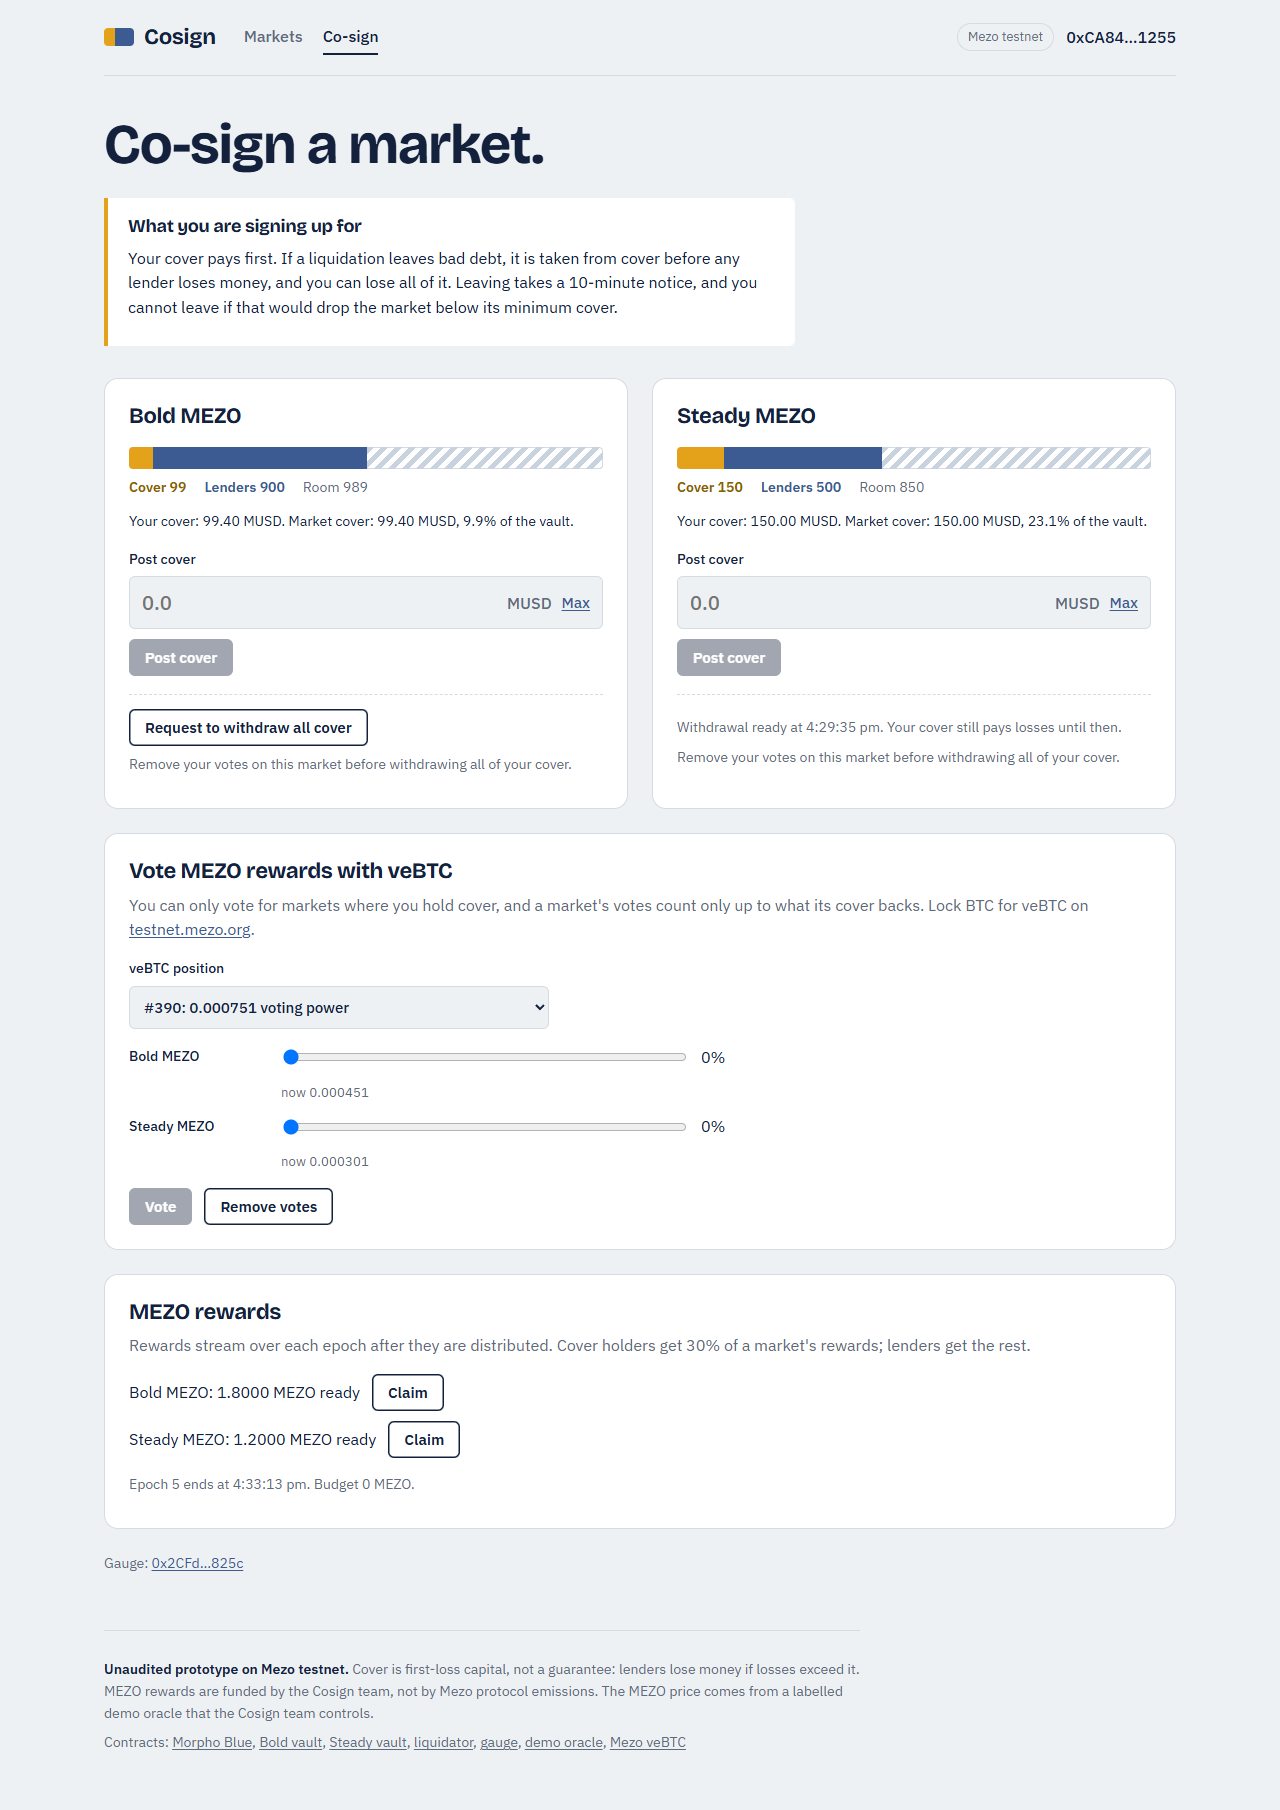
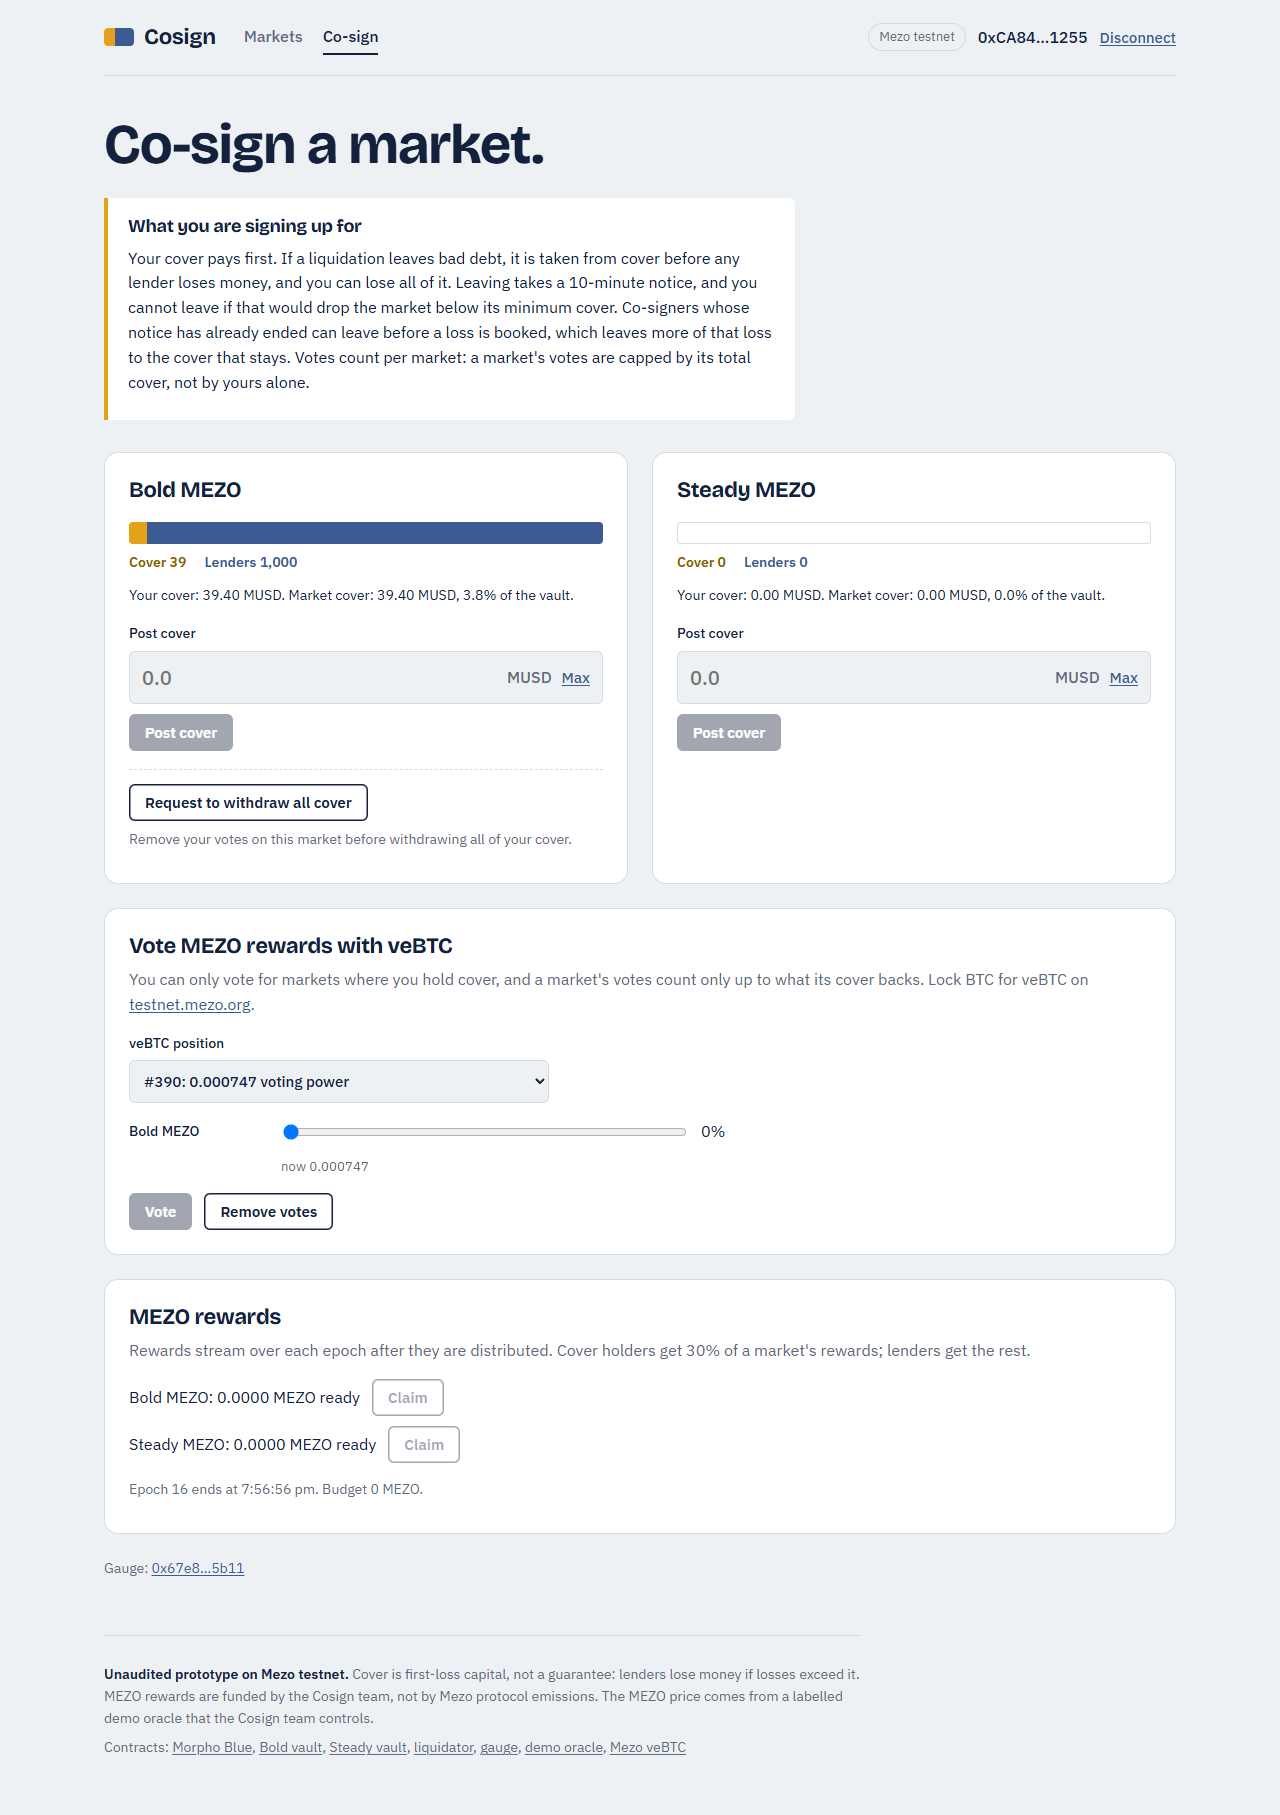
docs: add README, architecture diagram and v2 report; refresh screenshots
Retake screenshots from the live v2 app, archive the v1 report, and state
the first-loss guarantee with its limits.

diff --git a/README.md b/README.md
@@ -1,0 +1,162 @@
+<h1 align="center">Cosign</h1>
+
+<p align="center"><em>Credit ratings with skin in the game.</em></p>
+
+<p align="center">
+  First-loss cover for Morpho Blue lending markets on Mezo, posted by veBTC holders.<br>
+  Unaudited prototype · Mezo testnet only · <a href="#security-and-limitations">Read the limits first</a>
+</p>
+
+<p align="center"><img src="docs/screenshots/readme-market.png" alt="The Bold MEZO market in the Cosign app: cover in front of lenders, with the guarantee panel" width="860"></p>
+
+## Overview
+
+A lender on a lending market has no way to know how much of its own money the people who vouch for the market have at stake. Cosign makes that visible and enforceable.
+
+A veBTC holder (a **co-signer**) posts MUSD as **cover** in a market. Lenders deposit MUSD behind that cover. If a borrower's position is liquidated with bad debt, the loss is charged to cover first and reaches lenders only after cover is gone. In return, co-signers earn a share of the interest and the MEZO rewards that the market attracts.
+
+Cosign does not replace a lending protocol. It sits in front of one market on [Morpho Blue](https://github.com/morpho-org/morpho-blue), unmodified, and decides who bears a loss and who may vote for rewards.
+
+## Mechanism
+
+**Vote = Bond = Credit limit.**
+
+| Rule | What the contracts do |
+|---|---|
+| Cover is a bond | Co-signer MUSD sits in the junior tranche of a market's vault. A loss reduces it before any lender's balance. |
+| A vote needs a bond | veBTC votes for a market count only up to `cover × capRate`. A vote with no cover has no weight. |
+| Cover sets the credit limit | The vault accepts lender deposits only while `senior ≤ maxLeverage × cover` (19× on the Bold market, 9× on Steady). |
+| Cover cannot vanish at once | Leaving requires a notice period, then a withdrawal window, and is refused if it would drop the market below its minimum cover. |
+| Rewards are not emissions | MEZO paid to markets is funded by whoever calls `fund`. Cosign does not claim Mezo protocol emissions. |
+
+## Architecture
+
+<p align="center"><img src="docs/architecture.svg" alt="Cosign architecture: participants, Cosign contracts and Morpho Blue" width="860"></p>
+
+| Contract | Role |
+|---|---|
+| [`CosignVault`](contracts/src/CosignVault.sol) | One per market. Tranche accounting (senior and junior shares), interest split with a junior premium, loss waterfall, cover exit rules, reward streaming. Supplies MUSD to the Morpho market. |
+| [`CosignGauge`](contracts/src/CosignGauge.sol) | Reads live veBTC power. Caps each market's weight by its cover. Distributes self-funded MEZO by weight each epoch. `poke` scales down votes whose veBTC power has decayed; `clean` removes votes whose cover is gone. |
+| [`CosignLiquidator`](contracts/src/CosignLiquidator.sol) | Syncs the vault, liquidates on Morpho, syncs again, so interest is booked before a loss is applied. |
+| [`AdminOracle`](contracts/src/AdminOracle.sol) | Owner-set price. **Demo only.** It exists so a price crash can be shown on testnet. |
+| [`FixedRateIrm`](contracts/src/FixedRateIrm.sol) | Fixed-APR interest model for each market. |
+| Morpho Blue | Vendored at commit `9cf6d5b` and deployed unmodified as our own instance. |
+
+External: Mezo MUSD, the MEZO precompile, and the Mezo veBTC contract.
+
+## Product preview
+
+The app reads the deployed contracts directly. The bar shows capital in the order it is lost: cover first, then lenders.
+
+<p align="center"><img src="docs/screenshots/readme-losses.png" alt="Losses on this market: two liquidation losses, both paid entirely by cover, each linked to its block" width="860"></p>
+
+More screenshots are in [`docs/screenshots`](docs/screenshots) (light and dark, desktop and mobile).
+
+## Onchain proof
+
+Recorded on Mezo testnet against the v2 deployment below. The full list of 35 transactions and all 58 checks, including the six that failed on a first attempt and why, is in [`docs/TESTNET_EVIDENCE.md`](docs/TESTNET_EVIDENCE.md).
+
+| Event | Result | Transaction |
+|---|---|---|
+| Demo oracle sets MEZO from 10 to 3 MUSD | Borrower is liquidatable | [`0x83caa79b…`](https://explorer.test.mezo.org/tx/0x83caa79b9bcf4091663c0297bd3bcf0888abd3ead42a64eaa2bda1c4abe4217e) |
+| Direct liquidation on Morpho realises bad debt | 300.5 MUSD written off the market | [`0x1b71eae7…`](https://explorer.test.mezo.org/tx/0x1b71eae77951915978ab1c6d141ab411303106fdae58ed7aceae2a3287b13f59) |
+| Vault `sync()` allocates the loss | Cover 400 → 99.5 MUSD. Lenders' 1,000 MUSD principal untouched | [`0x214aaa56…`](https://explorer.test.mezo.org/tx/0x214aaa56492884f6031638d438959fdc14a805f16db883f1259651fe79a0a3ba) |
+| Liquidation through `CosignLiquidator` | Senior is credited its interest first; a 60.1 MUSD loss falls entirely on cover; the vault becomes under-covered and lender deposits are blocked | [`0x9e3b672c…`](https://explorer.test.mezo.org/tx/0x9e3b672c54374dd316e5ef90785442335474b41b7b1ced1a7b21165e3bb4ccba) |
+| Gauge distributes epoch 14 | 8 MEZO funded, 8 distributed, 8 claimed, 0 left over | [`0xa2801fd0…`](https://explorer.test.mezo.org/tx/0xa2801fd053fc47e0fb539e0e0b7164828f4fe14092d096debefc580dae3b2942) |
+
+On the first loss the lender's *booked* principal was untouched, but **0.000004 MUSD of interest that had accrued since the last sync was netted against the loss** because the liquidation went straight to Morpho. That is the documented limit of a direct liquidation; `CosignLiquidator` removes it. See [Security and limitations](#security-and-limitations).
+
+## Live deployments
+
+Mezo testnet (chain `31611`), v2. `contracts/script/verify_deploy.py` checks these against the chain (43/43 pass); `contracts/script/verify_bytecode.py` compares deployed bytecode with the compiled source (8/8 match).
+
+| Contract | Address |
+|---|---|
+| Morpho Blue | [`0xC6db4999d8428b259FD198A88d2B8E6494045A48`](https://explorer.test.mezo.org/address/0xC6db4999d8428b259FD198A88d2B8E6494045A48) |
+| CosignGauge | [`0x67e8De42E32000B703Cf95c05009eE757F325b11`](https://explorer.test.mezo.org/address/0x67e8De42E32000B703Cf95c05009eE757F325b11) |
+| CosignVault, Bold (77% LLTV, 19×) | [`0x49C8a8d5106B2878679d10EAEA71D0e6793bd7D7`](https://explorer.test.mezo.org/address/0x49C8a8d5106B2878679d10EAEA71D0e6793bd7D7) |
+| CosignVault, Steady (62.5% LLTV, 9×) | [`0x8f89117d71269E35D980905327e4C1252294B4a9`](https://explorer.test.mezo.org/address/0x8f89117d71269E35D980905327e4C1252294B4a9) |
+| CosignLiquidator | [`0xeA16eD793d165AFD1791a0f83668bf65735ED597`](https://explorer.test.mezo.org/address/0xeA16eD793d165AFD1791a0f83668bf65735ED597) |
+| AdminOracle (demo) | [`0xE9a83636AcBf75eBf3b20497B8126624D4378cc5`](https://explorer.test.mezo.org/address/0xE9a83636AcBf75eBf3b20497B8126624D4378cc5) |
+
+Full list, IRMs, and Mezo's own MUSD, MEZO and veBTC addresses: [`contracts/deployments/31611.json`](contracts/deployments/31611.json). The earlier v1 deployment is archived in `31611-v1.json`.
+
+## Getting started
+
+Requirements: [Foundry](https://book.getfoundry.sh/) (tested with 1.8.5), Node 20 or newer, Git with submodules.
+
+```bash
+git clone --recurse-submodules https://github.com/bunnyyxtan/cosign.git
+cd cosign
+
+# contracts
+cd contracts
+forge build
+forge test
+
+# app (reads the deployed testnet contracts; no wallet needed to browse)
+cd ../web
+npm ci
+npm run dev
+```
+
+The app copies `contracts/deployments/31611.json` and `demo-run.json` into `web/public/` on start. Connecting a wallet requires an injected EIP-1193 wallet (for example MetaMask) on Mezo testnet; the app offers to add and switch the network.
+
+`web/src/devWallet.ts` is a test-only wallet shim used for screenshots and automated runs. It installs only under `vite dev` when a local, git-ignored `web/.env.development.local` exists, and it is absent from the production bundle.
+
+To repeat the live demo you need your own funded testnet wallets: copy `.env.example` to `.env`, fill in testnet keys, and run `python -I contracts/script/demo.py <stage>` from `contracts/`. Stages are resumable and skip steps already present on-chain.
+
+## Testing
+
+| What | How | Latest recorded result |
+|---|---|---|
+| Contract unit, edge and adversarial tests | `cd contracts && forge test` | 40 pass, 0 fail (2,000 fuzz runs; see [`docs/test-results.txt`](docs/test-results.txt)) |
+| Fuzzing | Included; set `FOUNDRY_FUZZ_RUNS=2000` | Loss waterfall, round-trip value, last co-signer exit, enforceable guarantee |
+| Frontend type check and build | `cd web && npm run build` | Passes |
+| Dependency audit (production) | `cd web && npm audit --omit=dev` | 0 vulnerabilities |
+| Deployment against chain | `python -I contracts/script/verify_deploy.py` | 43/43 |
+| Deployed bytecode against source | `python -I contracts/script/verify_bytecode.py` | 8/8 |
+
+CI ([`.github/workflows/ci.yml`](.github/workflows/ci.yml)) builds and tests the contracts and builds the app. It uses no wallets or secrets.
+
+## Security and limitations
+
+**Cosign is an unaudited prototype on a test network. Do not use it with real funds.** Cover is first-loss capital, not insurance.
+
+What the contracts enforce:
+
+- A loss is taken from cover first. Lenders lose principal only for the part of a loss larger than the cover in front of them.
+- Every recognised loss is split between cover and lenders exactly (`LossAbsorbed` events), with nothing created or lost.
+- Votes carry weight only up to live cover.
+
+What they do **not** guarantee:
+
+- **Interest since the last sync, on direct liquidations.** A liquidation sent straight to Morpho can net the unbooked interest against the loss. Use `CosignLiquidator`.
+- **Protection beyond the cover.** A larger loss falls on the lenders still in the vault. Lenders who withdrew before it was realised are not charged, so those who stay bear more.
+- **That cover stays.** A co-signer whose notice period has ended can leave before a loss is booked.
+- **A borrowing limit.** The 19× rule caps deposits into a Cosign vault, not borrowing on the Morpho market, and borrowing is not paused when a vault is under-covered.
+- **Price integrity.** The oracle is a single-owner demo oracle. A production market needs a decentralised one.
+
+Findings, test evidence and open items are in [`docs/TESTNET_REPORT.md`](docs/TESTNET_REPORT.md). To report a vulnerability, see [`SECURITY.md`](SECURITY.md).
+
+## Roadmap
+
+Wave 2 candidates, none of which is built:
+
+1. Independent audit of the vault and gauge accounting.
+2. Replace the demo oracle with a production price source, and gate borrowing on cover.
+3. Settle losses at liquidation time so exits just before realisation cannot shift losses onto stayers.
+4. Mezo mainnet readiness: parameter review with the Mezo team, monitoring, and keeper operation for `CosignLiquidator`.
+
+## Credits and licensing
+
+Cosign's own source (`contracts/src`, `contracts/test`, `contracts/script`, `web`) is released under the [MIT License](LICENSE).
+
+Built on, and grateful to:
+
+- [Morpho Blue](https://github.com/morpho-org/morpho-blue) (GPL-2.0-or-later), vendored unmodified as a submodule and deployed as our own instance.
+- [OpenZeppelin Contracts](https://github.com/OpenZeppelin/openzeppelin-contracts) v5.1.0 (MIT) and [forge-std](https://github.com/foundry-rs/forge-std) (MIT or Apache-2.0).
+- [Mezo](https://mezo.org): MUSD, MEZO and veBTC.
+- React, Vite and viem (MIT).
+
+[`NOTICE.md`](NOTICE.md) lists third-party licences, including a note on the Morpho licence and how Cosign links to it.

diff --git a/docs/TESTNET_REPORT.md b/docs/TESTNET_REPORT.md
@@ -1,0 +1,52 @@
+# Cosign v2: testnet status report
+
+20 October 2026. Mezo testnet, chain 31611. Unaudited prototype; no mainnet transactions, no real funds. Every figure comes from chain state or transaction logs; the full tables are in [`TESTNET_EVIDENCE.md`](TESTNET_EVIDENCE.md), generated from the recorded run. The archived v1 report is [`TESTNET_REPORT_v1.md`](TESTNET_REPORT_v1.md).
+
+## What changed from v1
+
+| Issue found | Fix | Verified |
+|---|---|---|
+| Interest accrued since the last sync could be netted against a loss | `CosignLiquidator` (sync, liquidate, sync) | Live: interest booked before the loss, tx `0x9e3b672c…` |
+| Premium accrued to a wiped, empty cover round | `_books()` sends all interest to senior when there are no junior shares | Foundry test |
+| Stale veBTC votes kept full weight after power decayed | `CosignGauge.poke(tokenId)`, down-only, callable by anyone | Live poke: 747260802206100 → 746696758996422 |
+| 1 wei of senior dust with no shares blocked the last co-signer's exit | Dust-aware coverage check | Foundry stdstore reproduction and fuzz test |
+
+## Live v2 result
+
+- Cover posted (400 MUSD), votes capped by cover, lender deposit capped by `19 × cover` (a deposit of capacity + 1 reverts).
+- Self-funded MEZO: 8 funded, 8 distributed, 8 claimed, 0 left in the vault; a second distribution and a second claim pay nothing.
+- First loss, direct Morpho liquidation: 300.5 MUSD recognised, all from cover (400 → 99.5). Lenders' last-synced principal untouched; **0.000004 MUSD of unbooked interest was forgone**.
+- Second loss, through `CosignLiquidator`: 60.1 MUSD, all from cover; senior credited its interest first; vault became under-covered and blocked new deposits.
+- The app displays these transactions from the recorded run.
+
+Checks: 52 pass, 6 fail as recorded. The failures are kept in the evidence with causes: all six were flaws in the test script, not the contracts (a non-idempotent rerun after an RPC null receipt, a check that compared against an interest-inclusive preview, thresholds that ignored streaming rewards). The live `poke` stage also did not record its last check, which is covered by Foundry tests instead.
+
+## Tests and tooling
+
+| Item | Result |
+|---|---|
+| Foundry | 40 pass, 0 fail, 2,000 fuzz runs |
+| Frontend `tsc` and production build | Pass |
+| `npm audit --omit=dev` | 0 vulnerabilities |
+| Deployment verification against chain | 43/43 |
+| Deployed bytecode against compiled source | 8/8 |
+| Secret scan, working tree and full git history | No wallet key, token or key block found; `.env` never committed |
+| Production bundle | No dev-wallet code, no key material |
+
+## Release-readiness
+
+| Item | Status | Note |
+|---|---|---|
+| Contracts deployed and wired on testnet | PASS | 43/43 |
+| First-loss waterfall on a real liquidation | PASS | Measured twice |
+| Self-funded rewards reconcile | PASS | Exact to the wei at end of stream |
+| UI claims no stronger guarantee than the contracts | PASS | Guarantee panel states the limits |
+| Real-wallet (MetaMask) acceptance on testnet | **BLOCKED** | Not run: no wallet extension available to the automated session. Only a test-only wallet shim was used. A human run is required before any claim about browser-wallet flows |
+| Independent audit | **NOT DONE** | Required before any mainnet use |
+| Production oracle | **BLOCKED for mainnet** | Single-owner demo oracle |
+| Direct-liquidation interest netting | Known limit | Bounded by interest since last sync; fixed only for the liquidator path |
+| Exit before realisation shifts loss onto stayers | Known limit | Needs loss settlement at liquidation time |
+| Borrowing not capped by cover | Known limit | The 19× rule caps vault deposits only |
+| Morpho GPL libraries and Cosign's MIT licence | Open | See `NOTICE.md`; needs legal review |
+
+Nothing here is a blocker for external evaluation on testnet. Items marked BLOCKED or NOT DONE are blockers for any launch with real funds.

diff --git a/COSIGN.md b/COSIGN.md
@@ -1,8 +1,8 @@
 # COSIGN: full product brief for any AI or human joining this project
 
 > Read this whole file before writing code, a pitch, or a deck. It is the single source of truth for **what Cosign is, why it exists, how it works, what to build first, and what not to claim**.
-> v2, 20 Oct 2026. **Live on Mezo testnet**: addresses, transactions and verification in `docs/TESTNET_REPORT.md`. v2 replaces the v1 "cushion = earned fees" design after review (see §10). Supporting research: `research/IDEA_DECISION.md`, raw sources in `research/raw/`.
-> `research/COSIGN_VISION.md` is v1 pitch notes: its mechanism is outdated, so trust this file. `research/MEZO_BUILDATHON_RESEARCH.md` and `research/CLAUDE_FIRST_BUILD_BRIEF.md` describe an older idea ("Mezo Depth") and are **superseded**; their rules and dates are still accurate.
+> v2, 20 Oct 2026. **Live on Mezo testnet**: addresses and transactions in `contracts/deployments/31611.json` and `docs/TESTNET_EVIDENCE.md`; status and open risks in `docs/TESTNET_REPORT.md`. v2 replaces the v1 "cushion = earned fees" design after review (see §10). Early research notes are kept locally and are not part of the public repository.
+> Where this brief and the contracts disagree, the contracts and the tests are right.
 
 ---
 
@@ -191,7 +191,7 @@ This answers the critique of v1: fee-only cover would have absorbed about 4% of 
 - Undistributed rewards (no votes) roll to the next epoch.
 
 ### 5.3 Invariants: tests that must exist (Foundry)
-1. If `loss ≤ juniorAssets`, the senior share price **does not decrease**. This is the headline guarantee.
+1. If `loss ≤ juniorAssets`, senior's **last-synced** principal does not decrease. This is the headline guarantee, and it is conditional: interest accrued since the last sync is not guaranteed when a liquidation goes straight to Morpho (the vault only sees the net change; the forgone interest moves to junior), and `CosignLiquidator` (sync, liquidate, sync) removes that gap. Measured live: 0.000004 MUSD forgone on a direct liquidation; 0 through the liquidator.
 2. `byJunior + bySenior == loss`, always. `seniorAssets + juniorAssets == total` after every sync, up to rounding.
 3. `seniorAssets ≤ 19 × juniorAssets` holds after every deposit and every junior withdrawal.
 4. Junior can't withdraw before the cooldown, or below the coverage minimum.
@@ -320,8 +320,4 @@ Record with a screen recorder with auto-zoom (Cap / Screen Studio / OBS). Use a 
 | Path | What |
 |---|---|
 | `COSIGN.md` | This brief: the source of truth (v2) |
-| `research/IDEA_DECISION.md` | Why Cosign beat the alternatives, with sources |
-| `research/COSIGN_VISION.md` | v1 pitch notes (mechanism outdated; trust this file) |
-| `research/raw/` | Raw Exa / Jina / gh dumps (Reddit, Trustpilot, Mezo blog, docs, AKINDO listing) |
-| `research/MEZO_BUILDATHON_RESEARCH.md`, `research/CLAUDE_FIRST_BUILD_BRIEF.md` | **Superseded** idea ("Mezo Depth"); rules and dates still accurate |
 | `.tools/Agent-Reach`, `.tools/mcporter` | Research tooling (Exa search via mcporter) |

diff --git a/docs/TESTNET_REPORT_v1.md b/docs/TESTNET_REPORT_v1.md
@@ -1,3 +1,5 @@
+> **Archived v1 report.** Superseded by the v2 deployment; see `TESTNET_REPORT.md` and `TESTNET_EVIDENCE.md`. Kept as a record, including its failures.
+
 # Cosign: Mezo testnet deployment and end-to-end verification
 
 Engineering Directive 004 report. 20 October 2026. Network: **Mezo testnet, chain ID 31611** (RPC `https://rpc.test.mezo.org`, explorer `https://explorer.test.mezo.org`).
